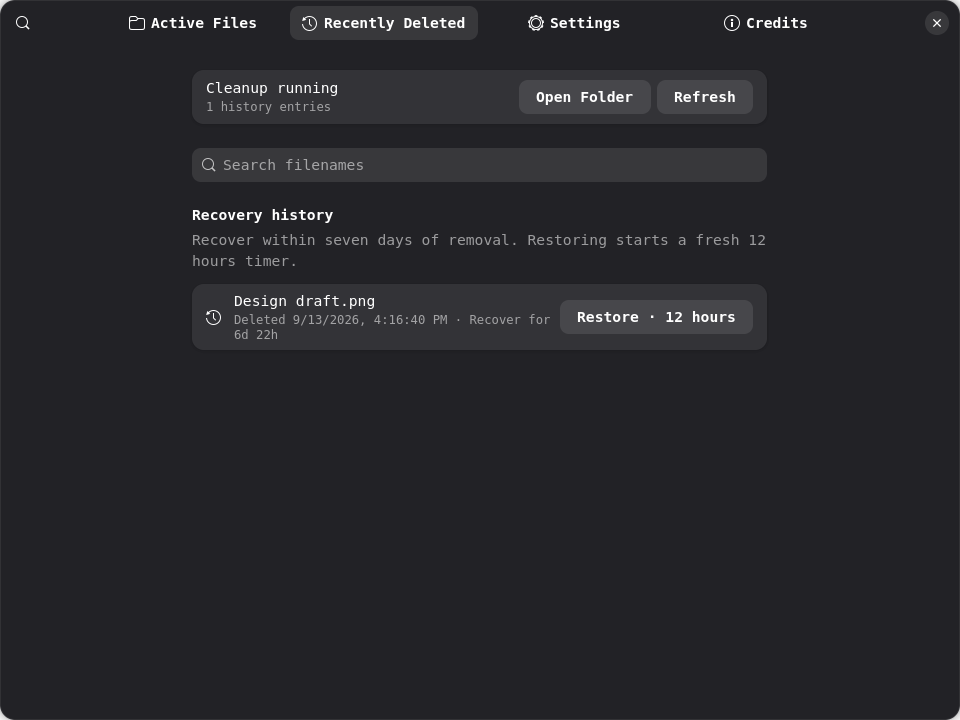
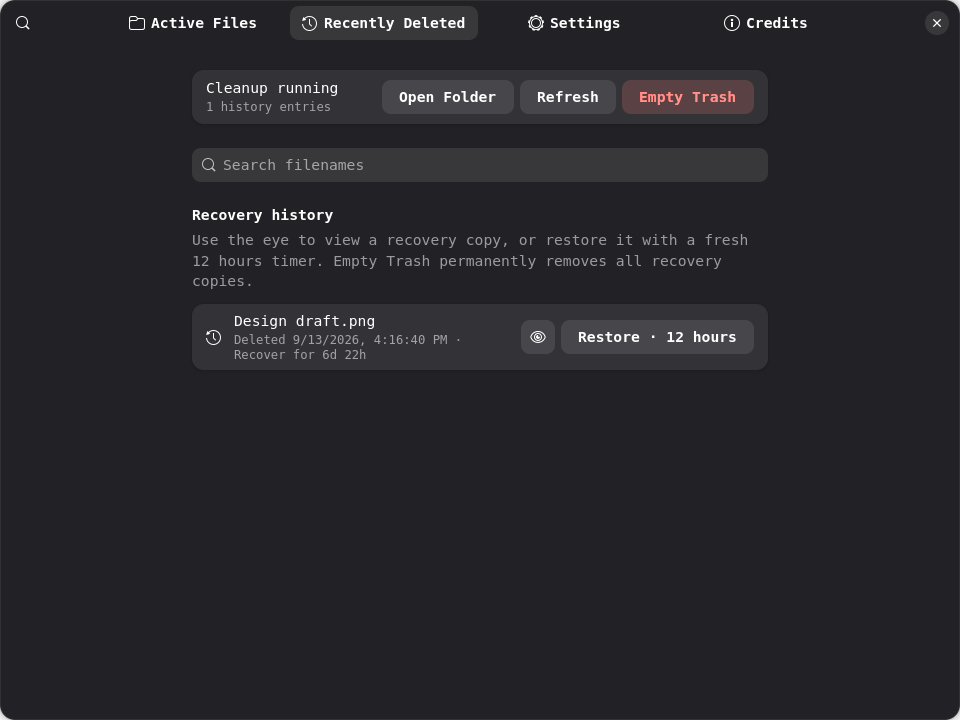
feat: add file deletion, recovery previews, and empty trash functionality

diff --git a/extension/prefs.js b/extension/prefs.js
@@ -27,6 +27,13 @@ export default class TransitPreferences extends ExtensionPreferences {
             const status = new Adw.ActionRow({ title: 'Connecting to cleanup service…', use_markup: false });
             status.add_suffix(this._button('Open Folder', () => this._openFolder()));
             status.add_suffix(this._button('Refresh', () => this._refresh()));
+            let emptyTrash = null;
+            if (name === 'history') {
+                emptyTrash = this._button('Empty Trash', () => this._emptyTrash());
+                emptyTrash.add_css_class('destructive-action');
+                emptyTrash.sensitive = false;
+                status.add_suffix(emptyTrash);
+            }
             overview.add(status);
             const storageWarning = new Adw.ActionRow({ title: 'Recovery files are unavailable', use_markup: false, visible: false });
             storageWarning.add_prefix(new Gtk.Image({ icon_name: 'dialog-warning-symbolic' }));
@@ -37,10 +44,10 @@ export default class TransitPreferences extends ExtensionPreferences {
             const search = new Gtk.SearchEntry({ placeholder_text: 'Search filenames', hexpand: true });
             searchGroup.add(search);
             page.add(searchGroup);
-            const files = new Adw.PreferencesGroup({ title: name === 'active' ? 'Your temporary collection' : 'Recovery history', description: name === 'active' ? 'Each temporary file has its own cleanup timer. Use the eye icon to open a file.' : 'Files removed by automatic cleanup can be restored within seven days.' });
+            const files = new Adw.PreferencesGroup({ title: name === 'active' ? 'Your temporary collection' : 'Recovery history', description: name === 'active' ? 'Each temporary file has its own cleanup timer. Use the eye icon to open a file.' : 'Deleted files can be viewed or restored within seven days. Empty Trash permanently removes their recovery copies.' });
             page.add(files);
             window.add(page);
-            this._views[name] = { status, storageWarning, search, files, children: [], limit: 100 };
+            this._views[name] = { status, emptyTrash, storageWarning, search, files, children: [], limit: 100 };
             search.connect('search-changed', () => {
                 this._views[name].limit = 100;
                 this._renderFiles(name);
@@ -177,6 +184,43 @@ export default class TransitPreferences extends ExtensionPreferences {
         this._openPath(GLib.build_filenamev([this._snapshot.folder, name]));
     }
 
+    async _openRecovery(id) {
+        try {
+            const recovery = await this._command(['preview', id]);
+            if (this._closed)
+                return;
+            // Recovery IDs have no suffix: choose the app from the original filename.
+            const [type] = Gio.content_type_guess(recovery.name, null);
+            const app = Gio.AppInfo.get_default_for_type(type, false);
+            if (!app)
+                throw new Error('No application is available to view this file type. Restore it to choose an application.');
+            app.launch([Gio.File.new_for_path(recovery.path)], null);
+        } catch (error) {
+            if (!this._closed)
+                this._window.add_toast(new Adw.Toast({title: error.message}));
+        }
+    }
+
+    _emptyTrash() {
+        const dialog = new Adw.MessageDialog({
+            transient_for: this._window,
+            modal: true,
+            heading: 'Empty Transit Trash?',
+            body: 'Permanently delete all Transit recovery copies and clear Recently Deleted, including files hidden by search. This cannot be undone. Active files and system Trash are not affected.',
+        });
+        dialog.add_response('cancel', 'Cancel');
+        dialog.add_response('empty', 'Empty Trash');
+        dialog.set_response_appearance('empty', Adw.ResponseAppearance.DESTRUCTIVE);
+        dialog.set_default_response('cancel');
+        dialog.set_close_response('cancel');
+        dialog.connect('response', (_dialog, response) => {
+            if (response === 'empty' && !this._closed)
+                this._refresh(['empty-trash']);
+            dialog.destroy();
+        });
+        dialog.present();
+    }
+
     _openPath(path) {
         this._openUri(Gio.File.new_for_path(path).get_uri());
     }
@@ -273,7 +317,7 @@ export default class TransitPreferences extends ExtensionPreferences {
         this._views.active.files.description = this._snapshot.folder_removed
             ? 'The folder was removed. Re-enable Transit to start a fresh collection.'
             : `Temporary files are removed after ${duration}; permanent files stay. Change the window in Settings. Use the eye icon to open a file.`;
-        this._views.history.files.description = `Recover within seven days of removal. Restoring starts a fresh ${duration} timer.`;
+        this._views.history.files.description = `Use the eye to view a recovery copy, or restore it with a fresh ${duration} timer. Empty Trash permanently removes all recovery copies.`;
         this._sync = false;
     }
 
@@ -281,6 +325,8 @@ export default class TransitPreferences extends ExtensionPreferences {
         this._controls.sensitive = value;
         for (const view of Object.values(this._views))
             view.files.sensitive = value;
+        if (this._views.history.emptyTrash)
+            this._views.history.emptyTrash.sensitive = value && fileRows(this._snapshot, 'history').length > 0;
     }
 
     _renderFiles(name) {
@@ -309,10 +355,11 @@ export default class TransitPreferences extends ExtensionPreferences {
             const row = new Adw.ActionRow({ title: item.name, subtitle: item.subtitle, use_markup: false, title_lines: 1, subtitle_lines: 2 });
             row.set_tooltip_text(item.name);
             row.add_prefix(new Gtk.Image({ icon_name: item.icon }));
-            if (name === 'active') {
+            {
                 const viewFile = new Gtk.Button({ icon_name: 'view-reveal-symbolic', valign: Gtk.Align.CENTER, tooltip_text: `Open ${item.name}` });
                 viewFile.update_property([Gtk.AccessibleProperty.LABEL], [`Open ${item.name}`]);
-                viewFile.connect('clicked', () => this._openFile(item.name));
+                viewFile.sensitive = item.previewEnabled;
+                viewFile.connect('clicked', () => name === 'active' ? this._openFile(item.name) : this._openRecovery(item.id));
                 eyeWidths.add_widget(viewFile);
                 row.add_suffix(viewFile);
             }
@@ -320,6 +367,11 @@ export default class TransitPreferences extends ExtensionPreferences {
             action.sensitive = item.enabled;
             actionWidths.add_widget(action);
             row.add_suffix(action);
+            if (name === 'active') {
+                const remove = this._button('Delete', () => this._refresh(['action', 'delete', item.id]));
+                remove.set_tooltip_text('Move to Recently Deleted; recover within seven days');
+                row.add_suffix(remove);
+            }
             add(row);
         }
         if (rows.length > view.limit)

diff --git a/extension/view-model.js b/extension/view-model.js
@@ -25,6 +25,7 @@ export function fileRows(snapshot, page, query = '') {
                 label: active ? (file.permanent ? 'Make Temporary' : 'Keep Permanently') : unavailable ? 'Unavailable' : valid ? `Restore · ${lifetimeLabel(snapshot.settings?.lifetime_hours)}` : 'Expired',
                 action: active ? (file.permanent ? 'unpin' : 'pin') : 'restore',
                 enabled: active || valid,
+                previewEnabled: active || valid,
             };
         });
 }

diff --git a/tests/test_core.py b/tests/test_core.py
@@ -127,6 +127,64 @@ class EngineTests(unittest.TestCase):
             self.assertEqual(s.settings()['lifetime_hours'], 5)
             self.assertEqual(s.snapshot()['files'][0]['expires'], row['expires'])
 
+    def test_manual_delete_is_recoverable_even_if_permanent_and_paused(self):
+        path = self.write()
+        row = self.tick()[0]
+        with self.store.session() as state:
+            state.action(row['id'], 'pin')
+            state.configure('paused', True)
+            state.action(row['id'], 'delete')
+            deleted = state.snapshot()['files'][0]
+            self.assertEqual(deleted['status'], 'deleted')
+            self.assertEqual(deleted['purge_at'], self.now + RETENTION)
+            self.assertFalse(path.exists())
+            preview = state.recovery_path(row['id'])
+            self.assertEqual(Path(preview['path']).read_bytes(), b'valuable data')
+            self.assertEqual(preview['name'], 'note.txt')
+            state.action(row['id'], 'restore')
+        self.assertEqual(path.read_bytes(), b'valuable data')
+
+    def test_delete_refuses_replaced_file(self):
+        path = self.write()
+        row = self.tick()[0]
+        path.rename(self.home / 'original')
+        path.write_text('replacement')
+        with self.store.session() as state, self.assertRaisesRegex(ValueError, 'no longer active'):
+            state.action(row['id'], 'delete')
+        self.assertEqual(path.read_text(), 'replacement')
+
+    def test_empty_trash_clears_history_and_recovery_only(self):
+        deleted = self.expire()
+        active = self.write('keep.txt')
+        self.tick()
+        system_trash = self.home / '.local/share/Trash/files'
+        system_trash.mkdir(parents=True)
+        (system_trash / 'untouched').write_text('keep')
+        with self.store.session() as state:
+            state.empty_trash()
+            self.assertEqual([r['name'] for r in state.snapshot()['files']], ['keep.txt'])
+            state.empty_trash()
+        self.assertTrue(active.exists())
+        self.assertFalse((self.store.root / '.transit-recovery' / deleted['id']).exists())
+        self.assertEqual((system_trash / 'untouched').read_text(), 'keep')
+
+    def test_preview_rejects_expired_or_replaced_recovery(self):
+        deleted = self.expire()
+        self.now = deleted['purge_at']
+        with self.store.session() as state, self.assertRaises(ValueError):
+            state.recovery_path(deleted['id'])
+        self.now -= 1
+        path = self.store.root / '.transit-recovery' / deleted['id']
+        path.rename(self.home / 'original')
+        path.symlink_to(self.home / 'original')
+        with self.store.session() as state:
+            with self.assertRaises(ValueError):
+                state.recovery_path(deleted['id'])
+            state.empty_trash()
+            self.assertEqual(state.snapshot()['files'], [])
+        self.assertTrue(path.is_symlink())
+        self.assertEqual((self.home / 'original').read_bytes(), b'valuable data')
+
     def test_restore_resets_five_hours(self):
         row = self.expire()
         self.now += 6 * 86400

diff --git a/transit/core.py b/transit/core.py
@@ -388,12 +388,35 @@ class Store:
             raise ValueError('File not found')
         if action == 'restore':
             self.move(r, restoring=True)
+        elif action == 'delete':
+            if r['status'] != 'active' or not self.matches(self.rootfd, r['name'], r):
+                raise ValueError('File is no longer active')
+            self.move(r)
+            if self.db.execute('SELECT status FROM files WHERE id=?', (file_id,)).fetchone()[0] != 'deleted':
+                raise ValueError('File changed or has multiple hard links. Refresh and try again.')
         elif action in ('pin', 'unpin'):
             if r['status'] != 'active' or not self.matches(self.rootfd, r['name'], r):
                 raise ValueError('File is no longer active')
             self.db.execute('UPDATE files SET permanent=?,expires=? WHERE id=?', (int(action == 'pin'), self.clock() + self.settings()['lifetime_hours'] * 3600, file_id))
         else:
             raise ValueError('Unknown action')
+
+    def recovery_path(self, file_id):
+        self.refresh_availability()
+        row = self.db.execute('SELECT * FROM files WHERE id=?', (file_id,)).fetchone()
+        if row is None or row['status'] != 'deleted' or self.clock() >= row['purge_at']:
+            raise ValueError('Recovery file is unavailable or its recovery period has ended.')
+        if not self.matches(self.vaultfd, row['id'], row):
+            raise ValueError('Recovery file is missing or changed.')
+        return {'path': str(self.root / '.transit-recovery' / row['id']), 'name': row['name']}
+
+    def empty_trash(self):
+        # This is only Transit recovery/history, never the desktop Trash or active files.
+        for row in self.db.execute("SELECT * FROM files WHERE status IN ('deleted','recovery_missing','purged')").fetchall():
+            if self.vaultfd is not None and self.matches(self.vaultfd, row['id'], row):
+                os.unlink(row['id'], dir_fd=self.vaultfd)
+                os.fsync(self.vaultfd)
+            self.db.execute('DELETE FROM files WHERE id=?', (row['id'],))
 
     def snapshot(self):
         self.refresh_availability()

diff --git a/tests/test_install.py b/tests/test_install.py
@@ -14,6 +14,23 @@ from transit.core import Store
 
 
 class InstallerTests(unittest.TestCase):
+    def test_cli_delete_preview_and_empty_trash(self):
+        with tempfile.TemporaryDirectory() as temporary:
+            home = Path(temporary)
+            env = {**os.environ, 'HOME': str(home), 'XDG_DATA_HOME': str(home / 'data'), 'XDG_CONFIG_HOME': str(home / 'config')}
+            def command(*args):
+                result = subprocess.run([sys.executable, '-m', 'transit', *args], env=env, capture_output=True, text=True, check=True)
+                return json.loads(result.stdout)
+            command('status')
+            (home / '_transit/sample.txt').write_text('sample')
+            file_id = command('tick')['files'][0]['id']
+            self.assertEqual(command('action', 'delete', file_id)['files'][0]['status'], 'deleted')
+            preview = command('preview', file_id)
+            self.assertEqual(preview['name'], 'sample.txt')
+            self.assertEqual(Path(preview['path']).read_text(), 'sample')
+            self.assertEqual(command('empty-trash')['files'], [])
+            self.assertFalse(Path(preview['path']).exists())
+
     def test_install_launcher_and_uninstall_preserve_user_data(self):
         with tempfile.TemporaryDirectory() as temp:
             home = Path(temp) / 'a home with spaces'
@@ -72,7 +89,7 @@ class InstallerTests(unittest.TestCase):
                 self.assertFalse(recovery_path.exists())
                 database = home / '.local/share/transit/state.sqlite3'
                 self.assertTrue(database.is_file())
-                with sqlite3.connect(database) as db:
+                with contextlib.closing(sqlite3.connect(database)) as db:
                     self.assertEqual(db.execute('SELECT COUNT(*) FROM files').fetchone()[0], 0)
                     self.assertEqual(json.loads(db.execute("SELECT value FROM settings WHERE key='lifetime_hours'").fetchone()[0]), 48)
                 self.assertFalse(launcher.exists())

diff --git a/transit/__main__.py b/transit/__main__.py
@@ -13,11 +13,13 @@ def main():
     commands = parser.add_subparsers(dest='command', required=True)
     gui = commands.add_parser('gui')
     gui.add_argument('--page', choices=['active', 'history', 'settings'], default='active')
-    for name in ('status', 'tick', 'daemon', 'open'):
+    for name in ('status', 'tick', 'daemon', 'open', 'empty-trash'):
         commands.add_parser(name)
     action = commands.add_parser('action')
-    action.add_argument('operation', choices=['pin', 'unpin', 'restore'])
+    action.add_argument('operation', choices=['pin', 'unpin', 'restore', 'delete'])
     action.add_argument('id')
+    preview = commands.add_parser('preview')
+    preview.add_argument('id')
     config = commands.add_parser('config')
     config.add_argument('key', choices=['paused', 'capture_screenshots', 'screenshot_folder', 'theme', 'lifetime_hours'])
     config.add_argument('value')
@@ -64,6 +66,11 @@ def main():
         with store.session() as s:
             if args.command == 'tick':
                 s.tick()
+            elif args.command == 'preview':
+                print(json.dumps(s.recovery_path(args.id)))
+                return
+            elif args.command == 'empty-trash':
+                s.empty_trash()
             elif args.command == 'action':
                 s.action(args.id, args.operation)
             elif args.command == 'config':

diff --git a/VALIDATION.md b/VALIDATION.md
@@ -2,7 +2,7 @@
 
 ## Completed
 
-- **53 Python tests passed:** deletion/moving of the root or recovery folder,
+- **58 Python tests passed:** deletion/moving of the root or recovery folder,
   immediate availability checks, returned/replaced/symlinked recovery copies,
   all seven cleanup windows, changing existing timers,
   pause/resume, persistence, restoration, collision handling, recovery deadlines,
@@ -89,3 +89,16 @@ The systemd operations are mocked in installer tests. GitHub CI has not been run
   re-enabling resumes it. Test this only with disposable files.
 - Test missing/stopped service and recovery after reinstall/restart.
 - Recheck each declared GNOME version before advertising compatibility.
+
+- Manual Delete tested with paused cleanup and a permanent file, followed by
+  preview and restore. Replaced active files are refused.
+- Empty Trash tested for recovery/history clearing, idempotence, active-file and
+  system-Trash preservation. Preview rejects expired or replaced recovery copies.
+- Presentation tests cover preview availability for recoverable, expired, purged,
+  and unavailable entries.
+
+- CLI integration verifies Delete → Preview → Empty Trash with disposable data.
+- Native sample screenshots verify aligned active actions and the recovery eye and Empty Trash controls.
+
+- Native confirmation smoke test verifies Cancel/default-close never invokes deletion,
+  and confirmation invokes exactly one Empty Trash command against a mocked backend.

diff --git a/README.md b/README.md
@@ -221,3 +221,15 @@ flowchart TD
 ## License
 
 MIT licensed. See [LICENSE](LICENSE).
+
+### Delete, view recovery files, and empty Transit Trash
+
+Each Active Files row has **Delete**, which moves that file to Recently Deleted
+for seven-day recovery. This explicit action also works for permanent files and
+while automatic cleanup is paused.
+
+Recently Deleted has an **eye button** to open each available recovery copy in its
+default application without restoring it. Missing and expired copies cannot be
+opened. **Empty Trash** asks for confirmation, then permanently removes all Transit
+recovery copies and clears its history, including entries hidden by search. It does
+not delete active files or empty your desktop's system Trash.
